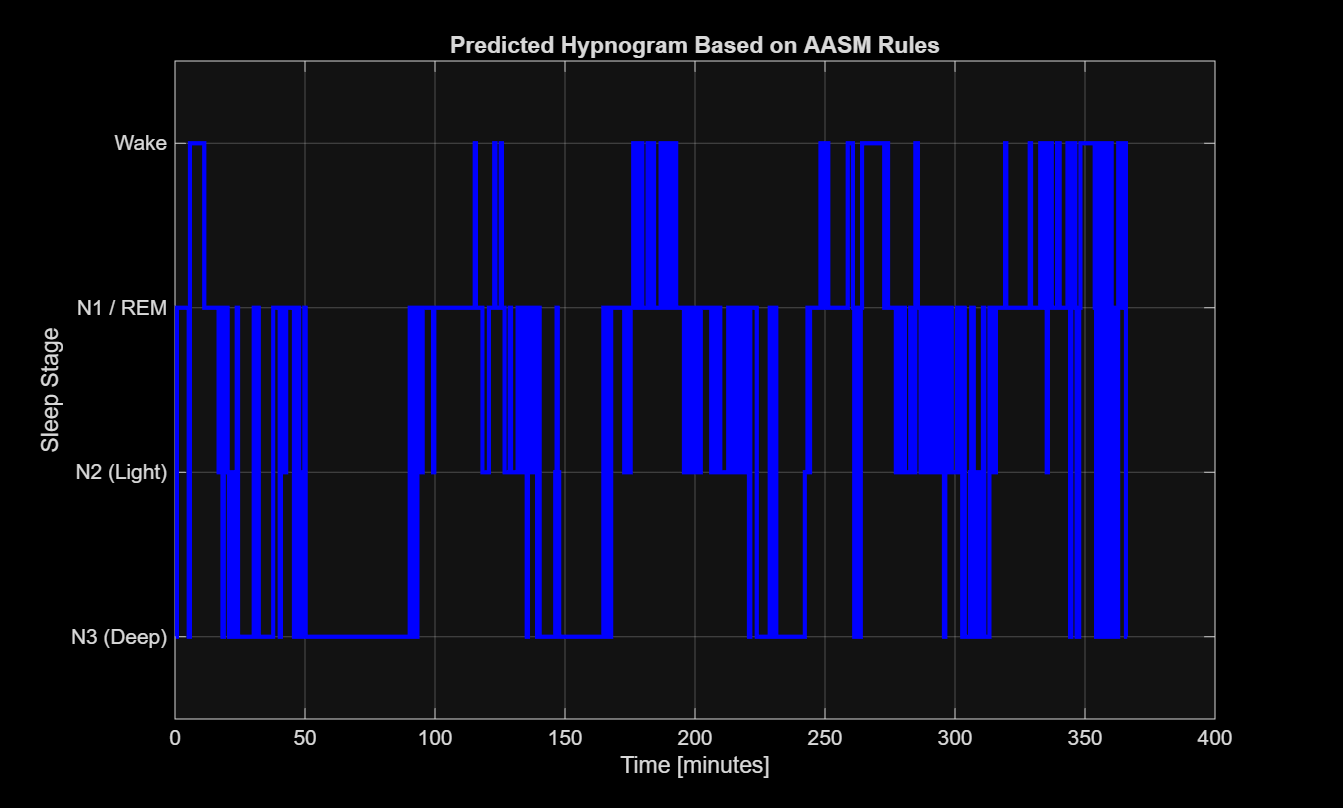
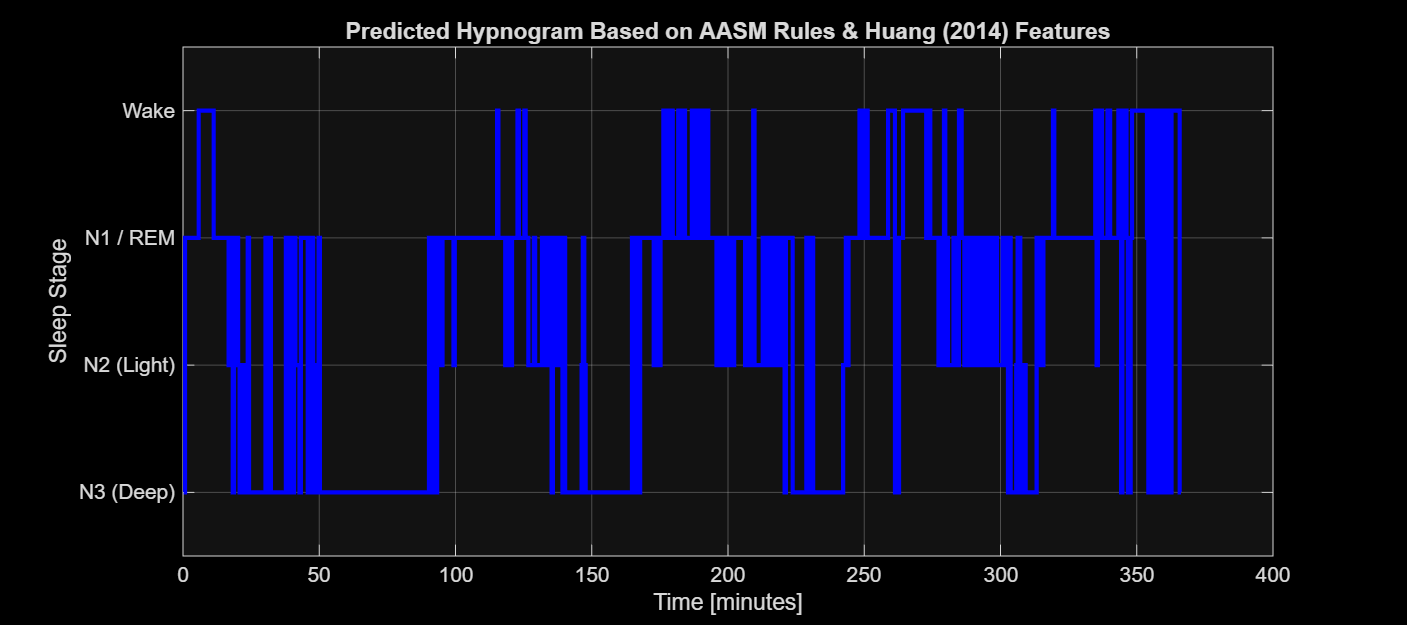
V 1.5

diff --git a/main3.m b/main3.m
@@ -1,22 +1,29 @@
 % =========================================================================
 % SLEEP STAGE CLASSIFICATION (FEATURE BASED METHOD)
 % Based on Huang et al. (2014) & Dement et al. (1957)
-% Author : Mohammadreza Iravani
+% Unified and Optimized Version 
 % =========================================================================
 
 clearvars; close all; clc;
 
 %% 1. Load and Preprocess Data
-fprintf('Loading data.mat...\n');
+fprintf('Loading data.mat and NotchFilter.mat...\n');
 load('data.mat', 'dati');   
 Fs = dati.fs;               
-EEG = dati.eeg; 
+EEG = double(dati.eeg(:)); 
+
+% Load the Notch filter provided by the professor
+load('NotchFilter.mat', 'SOS', 'G');
 
 % Store a copy of the raw signal for plotting
 EEG_raw = EEG;
 
-% Detrend the signal to remove DC offset
+% Detrend the signal to remove DC offset and slow drifts
 EEG = detrend(EEG);
+
+% --- Apply Notch Filter (50 Hz) ---
+% Applied explicitly as provided in the course materials
+EEG = filtfilt(SOS, G, EEG);
 
 % --- Design and Apply Bandpass Filter (0.5 to 30 Hz) ---
 low_cutoff = 0.5;
@@ -26,10 +33,10 @@ bp_filter = designfilt('bandpassiir', 'FilterOrder', 4, ...
     'DesignMethod', 'butter', 'SampleRate', Fs);
 EEG = filtfilt(bp_filter, EEG);
 
-%% 2. Feature Extraction (Based on Huang et al., 2014 via STFT)
+%% 2. Feature Extraction (Strictly based on Huang et al., 2014)
 % Standard AASM epoch size
 window_length = Fs * 30;              
-shift = window_length; 
+nEpochs = floor(length(EEG) / window_length); % Exact number of full 30s epochs
 
 % STFT parameters defined in the paper: 
 % 1-second Hamming window overlapped with 0.5 seconds
@@ -37,15 +44,21 @@ segment_length = Fs * 1;
 noverlap = Fs * 0.5;        
 nfft = 2048;                
 
-N = length(EEG);
-i = 1;  
-counter = 1;
+% Pre-allocate feature arrays for speed
+SlowWave_Power = zeros(1, nEpochs);
+Theta_Power    = zeros(1, nEpochs);
+Alpha_Power    = zeros(1, nEpochs);
+Sigma_Power    = zeros(1, nEpochs);
+time_min       = zeros(1, nEpochs);
 
-while (i + window_length - 1) < N
-    EEG_epoch = detrend(EEG(i:i+window_length-1));
+for k = 1:nEpochs
+    % Extract current 30-second epoch
+    start_idx = (k - 1) * window_length + 1;
+    end_idx   = k * window_length;
+    EEG_epoch = detrend(EEG(start_idx:end_idx));
     
-    % Compute Short-Time Fourier Transform (STFT) for the 30s epoch
-    % This generates 59 segments per epoch as described in the paper
+    % Compute Short-Time Fourier Transform (STFT) 
+    % Generates 59 segments per epoch as described in Huang 2014
     [PSD_matrix, f] = spectrogram(EEG_epoch, hamming(segment_length), noverlap, nfft, Fs, 'yaxis');
     
     % Convert to absolute Power Spectral Density (PSD)
@@ -53,54 +66,67 @@ while (i + window_length - 1) < N
     
     % Normalization: Divide each frequency bin by the total sum in its segment
     total_power_per_segment = sum(PSD_matrix, 1);
+    % Prevent division by zero
+    total_power_per_segment(total_power_per_segment == 0) = eps; 
     Normalized_PSD = bsxfun(@rdivide, PSD_matrix, total_power_per_segment);
     
-    % Exact frequency bands according to AASM and Huang et al., 2014
+    % Exact frequency bands according to Huang et al., 2014
     sw_idx    = (f >= 0.5 & f <= 2);  % Slow Wave Activity for N3
     theta_idx = (f >= 5   & f <= 7);  % Theta Rhythm for N1/N2 background
     alpha_idx = (f >= 8   & f <= 12); % Alpha Rhythm for Wake
     sigma_idx = (f >= 12  & f <= 14); % Sleep Spindle for N2
     
     % Calculate relative power in specific bands across the 59 segments
-    SW_Power_Segments    = sum(Normalized_PSD(sw_idx, :), 1);
-    Theta_Power_Segments = sum(Normalized_PSD(theta_idx, :), 1);
-    Alpha_Power_Segments = sum(Normalized_PSD(alpha_idx, :), 1);
-    Sigma_Power_Segments = sum(Normalized_PSD(sigma_idx, :), 1);
+    sw_pow    = sum(Normalized_PSD(sw_idx, :), 1);
+    theta_pow = sum(Normalized_PSD(theta_idx, :), 1);
+    alpha_pow = sum(Normalized_PSD(alpha_idx, :), 1);
+    sigma_pow = sum(Normalized_PSD(sigma_idx, :), 1);
     
-    % Epoch Features: Capturing temporal properties of manual scoring rules
-    SlowWave_Power(counter) = mean(SW_Power_Segments);
-    Theta_Power(counter)    = mean(Theta_Power_Segments);
-    Alpha_Power(counter)    = mean(Alpha_Power_Segments);
-    % Since spindles occur suddenly (0.5 - 1.5s), maximum power among 59 segments is extracted
-    Sigma_Power(counter)    = max(Sigma_Power_Segments); 
+    % --- Epoch Features: Applying exact manual scoring properties ---
+    % N3 (Slow Wave): Mean of the upper 80% of the 59 segments
+    sw_sorted = sort(sw_pow, 'ascend');
+    n80 = max(1, floor(0.8 * length(sw_sorted)));
+    SlowWave_Power(k) = mean(sw_sorted(end-n80+1:end));
     
-    time_min(counter) = (i + window_length/2) / (Fs * 60);
-    i = i + shift;
-    counter = counter + 1;
+    % Wake (Alpha): Mean of the upper 50% of the 59 segments
+    alpha_sorted = sort(alpha_pow, 'ascend');
+    n50 = max(1, floor(0.5 * length(alpha_sorted)));
+    Alpha_Power(k) = mean(alpha_sorted(end-n50+1:end));
+    
+    % N2 (Sigma/Spindles): Max power among the 59 segments (due to sudden short bursts)
+    Sigma_Power(k) = max(sigma_pow);
+    
+    % N1/REM (Theta): Mean value
+    Theta_Power(k) = mean(theta_pow);
+    
+    % Time vector center in minutes
+    time_min(k) = (start_idx + window_length/2) / (Fs * 60);
 end
 
 %% 3. Threshold-Based Stage Detection (Translating AASM Rules)
-Detected_Stage = strings(1, length(time_min));
+Detected_Stage = strings(1, nEpochs);
 
 % Adaptive thresholds based on subject's overall physiological baseline
+% Note: Using robust statistics (median and absolute deviation can also be used)
 thresh_alpha = mean(Alpha_Power) + std(Alpha_Power);
 thresh_sw    = mean(SlowWave_Power) + 0.5 * std(SlowWave_Power);
 thresh_sigma = mean(Sigma_Power) + std(Sigma_Power);
 
-for k = 1:length(time_min)
-    % AASM Rule: >50% alpha rhythm -> Wake
+for k = 1:nEpochs
+    % AASM Rule: Dominant alpha rhythm -> Wake
     if Alpha_Power(k) > thresh_alpha
         Detected_Stage(k) = "Wake";
         
-    % AASM Rule: >20% high amplitude slow wave -> N3
+    % AASM Rule: High amplitude slow wave activity -> N3
     elseif SlowWave_Power(k) > thresh_sw
         Detected_Stage(k) = "N3";
         
-    % AASM Rule: Sleep spindle (12-14Hz) occurrence -> N2
+    % AASM Rule: Sleep spindle occurrence (max sigma burst) -> N2
     elseif Sigma_Power(k) > thresh_sigma
         Detected_Stage(k) = "N2";
         
-    % AASM Rule: Alpha is attenuated and replaced by Theta -> N1 / REM
+    % AASM Rule: Low voltage mixed frequency (Alpha attenuated, Theta dominant) -> N1/REM
+    % Note: distinguishing N1 from REM accurately requires EOG/EMG channels.
     else
         Detected_Stage(k) = "N1 / REM";
     end
@@ -110,46 +136,42 @@ end
 fprintf('Generating and saving figures...\n');
 
 % --- Figure 1: Raw vs Filtered Signal ---
-fig1 = figure('Name', 'Preprocessing', 'NumberTitle', 'off');
+fig1 = figure('Name', 'Preprocessing', 'NumberTitle', 'off', 'Position', [100 100 800 600]);
 t_30s = (0:window_length-1) / Fs;
 subplot(2,1,1); plot(t_30s, EEG_raw(1:window_length), 'Color', [0.6 0.6 0.6]);
 title('Raw EEG Signal (First 30 Seconds Epoch)'); ylabel('Amplitude'); xlabel('Time [s]'); grid on;
 subplot(2,1,2); plot(t_30s, EEG(1:window_length), 'Color', 'b');
-title('Filtered EEG Signal (0.5 - 30 Hz Bandpass)'); ylabel('Amplitude'); xlabel('Time [s]'); grid on;
-% Save Figure 1
+title('Filtered EEG Signal (Detrend + Notch + Bandpass)'); ylabel('Amplitude'); xlabel('Time [s]'); grid on;
 saveas(fig1, 'FigX_1_1.png');
 
 % --- Figure 2: STFT Spectrogram ---
-fig2 = figure('Name', 'Spectrogram', 'NumberTitle', 'off');
+fig2 = figure('Name', 'Spectrogram', 'NumberTitle', 'off', 'Position', [150 150 800 500]);
 spectrogram(EEG, hamming(segment_length), noverlap, nfft, Fs, 'yaxis');
 ylim([0 30]); title('STFT Spectrogram (Frequency Content Over Time)'); colormap jet;
-% Save Figure 2
 saveas(fig2, 'FigX_1_2.png');
 
 % --- Figure 3: Extracted Features Based on Huang et al. 2014 ---
-fig3 = figure('Name', 'Extracted Features', 'NumberTitle', 'off');
-ax(1) = subplot(4,1,1); plot(time_min, SlowWave_Power, 'LineWidth', 1.5); ylabel('Slow Wave'); title('N3 Indicator (0.5 - 2 Hz)'); grid on;
-ax(2) = subplot(4,1,2); plot(time_min, Alpha_Power, 'LineWidth', 1.5); ylabel('Alpha'); title('Wake Indicator (8 - 12 Hz)'); grid on;
-ax(3) = subplot(4,1,3); plot(time_min, Sigma_Power, 'LineWidth', 1.5); ylabel('Sigma'); title('N2 Indicator (12 - 14 Hz)'); grid on;
-ax(4) = subplot(4,1,4); plot(time_min, Theta_Power, 'LineWidth', 1.5, 'Color', 'r'); xlabel('Time [minutes]'); ylabel('Theta'); title('N1 Background (5 - 7 Hz)'); grid on;
+fig3 = figure('Name', 'Extracted Features', 'NumberTitle', 'off', 'Position', [200 200 900 700]);
+ax(1) = subplot(4,1,1); plot(time_min, SlowWave_Power, 'LineWidth', 1.5); ylabel('Slow Wave'); title('N3 Indicator (Upper 80% Mean)'); grid on;
+ax(2) = subplot(4,1,2); plot(time_min, Alpha_Power, 'LineWidth', 1.5); ylabel('Alpha'); title('Wake Indicator (Upper 50% Mean)'); grid on;
+ax(3) = subplot(4,1,3); plot(time_min, Sigma_Power, 'LineWidth', 1.5); ylabel('Sigma'); title('N2 Indicator (Maximum Burst)'); grid on;
+ax(4) = subplot(4,1,4); plot(time_min, Theta_Power, 'LineWidth', 1.5, 'Color', 'r'); xlabel('Time [minutes]'); ylabel('Theta'); title('N1 Background (Mean Theta)'); grid on;
 linkaxes(ax, 'x');
-% Save Figure 3
 saveas(fig3, 'FigX_1_3.png');
 
 % --- Figure 4: Hypnogram (Output) ---
-fig4 = figure('Name', 'Hypnogram', 'NumberTitle', 'off');
-stage_num = zeros(1, length(Detected_Stage));
+fig4 = figure('Name', 'Hypnogram', 'NumberTitle', 'off', 'Position', [250 250 900 400]);
+stage_num = zeros(1, nEpochs);
 stage_num(Detected_Stage == "Wake") = 0;
 stage_num(Detected_Stage == "N1 / REM") = -1;
 stage_num(Detected_Stage == "N2") = -2;
 stage_num(Detected_Stage == "N3") = -3;
 
-% Plot Hypnogram in Blue ('b')
+% Plot Hypnogram in Blue
 stairs(time_min, stage_num, 'LineWidth', 2, 'Color', 'b');
 yticks([-3, -2, -1, 0]); yticklabels({'N3 (Deep)', 'N2 (Light)', 'N1 / REM', 'Wake'});
 ylim([-3.5 0.5]); xlabel('Time [minutes]'); ylabel('Sleep Stage');
-title('Predicted Hypnogram Based on AASM Rules'); grid on;
-% Save Figure 4
+title('Predicted Hypnogram Based on AASM Rules & Huang (2014) Features'); grid on;
 saveas(fig4, 'FigX_1_4.png');
 
 fprintf('All figures have been saved successfully!\n');
